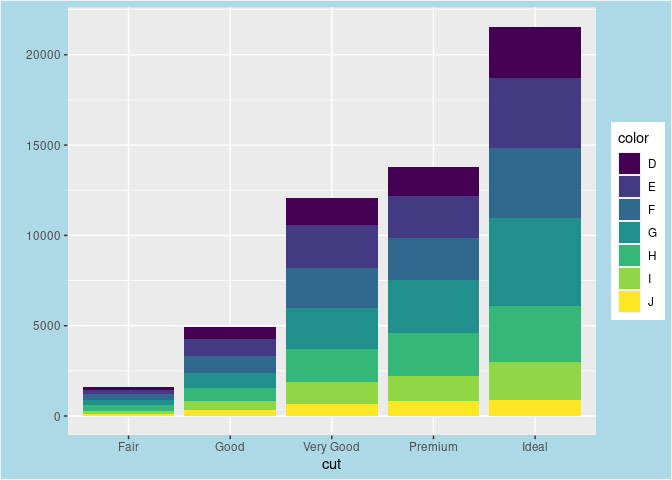
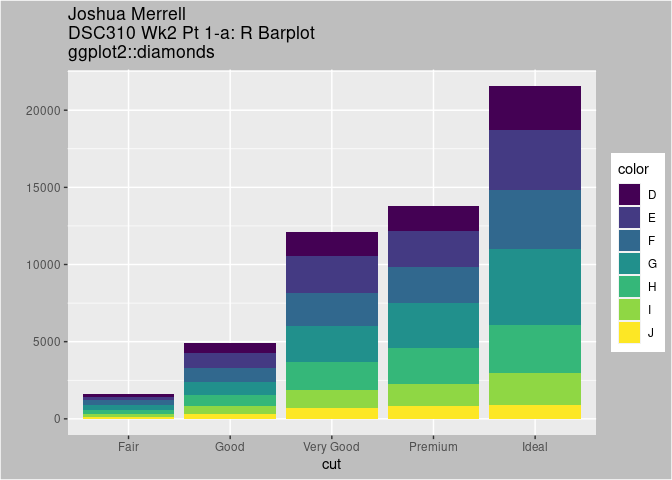
render

diff --git a/vis.md b/vis.md
@@ -1,9 +1,14 @@
+``` r
+library(ggplot2)
+```
+
 Vertical or Horizontal Barplot
 ------------------------------
 
 ``` r
 qplot(x=cut, fill=color, data=diamonds) + 
-    theme(plot.background = element_rect(fill="lightblue"))
+    theme(plot.background = element_rect(fill="gray")) + 
+    ggtitle("Joshua Merrell\nDSC310 Wk2 Pt 1-a: R Barplot\nggplot2::diamonds")
 ```
 
 ![](vis_files/figure-markdown_github/vertical%20(stacked)%20barplot-1.png)
@@ -12,8 +17,10 @@ Grouped or stacked bar chart
 ----------------------------
 
 ``` r
-ggplot(data=diamonds, aes(fill=color, y=price, x=cut)) +
-    geom_bar(position="dodge", stat="identity")
+ggplot(data=diamonds, aes(fill=clarity, x=cut)) +
+  geom_bar(position="dodge") +
+  theme(plot.background = element_rect("gray")) +
+  ggtitle("Joshua Merrell\nDSC310 Wk2 Pt 2-a: R Grouped Barplot\nggplot2::diamonds")
 ```
 
 ![](vis_files/figure-markdown_github/grouped%20barplot-1.png)
@@ -22,8 +29,12 @@ Heatmap:
 --------
 
 ``` r
-ggplot(data=diamonds, aes(x, y, fill = z)) + 
-    geom_tile()
+ggplot(as.data.frame(table(diamonds[ ,c("cut", "clarity")])), 
+       aes(x = cut, y = clarity)) + 
+  geom_tile(aes(fill = Freq)) +
+  geom_text(aes(label = Freq), col = 'yellow') + 
+  theme(plot.background = element_rect("gray")) +
+  ggtitle("Joshua Merrell\nDSC310 Wk2 Pt 3-a: R Heatmap\nggplot2::diamonds")
 ```
 
 ![](vis_files/figure-markdown_github/heatmap-1.png)
